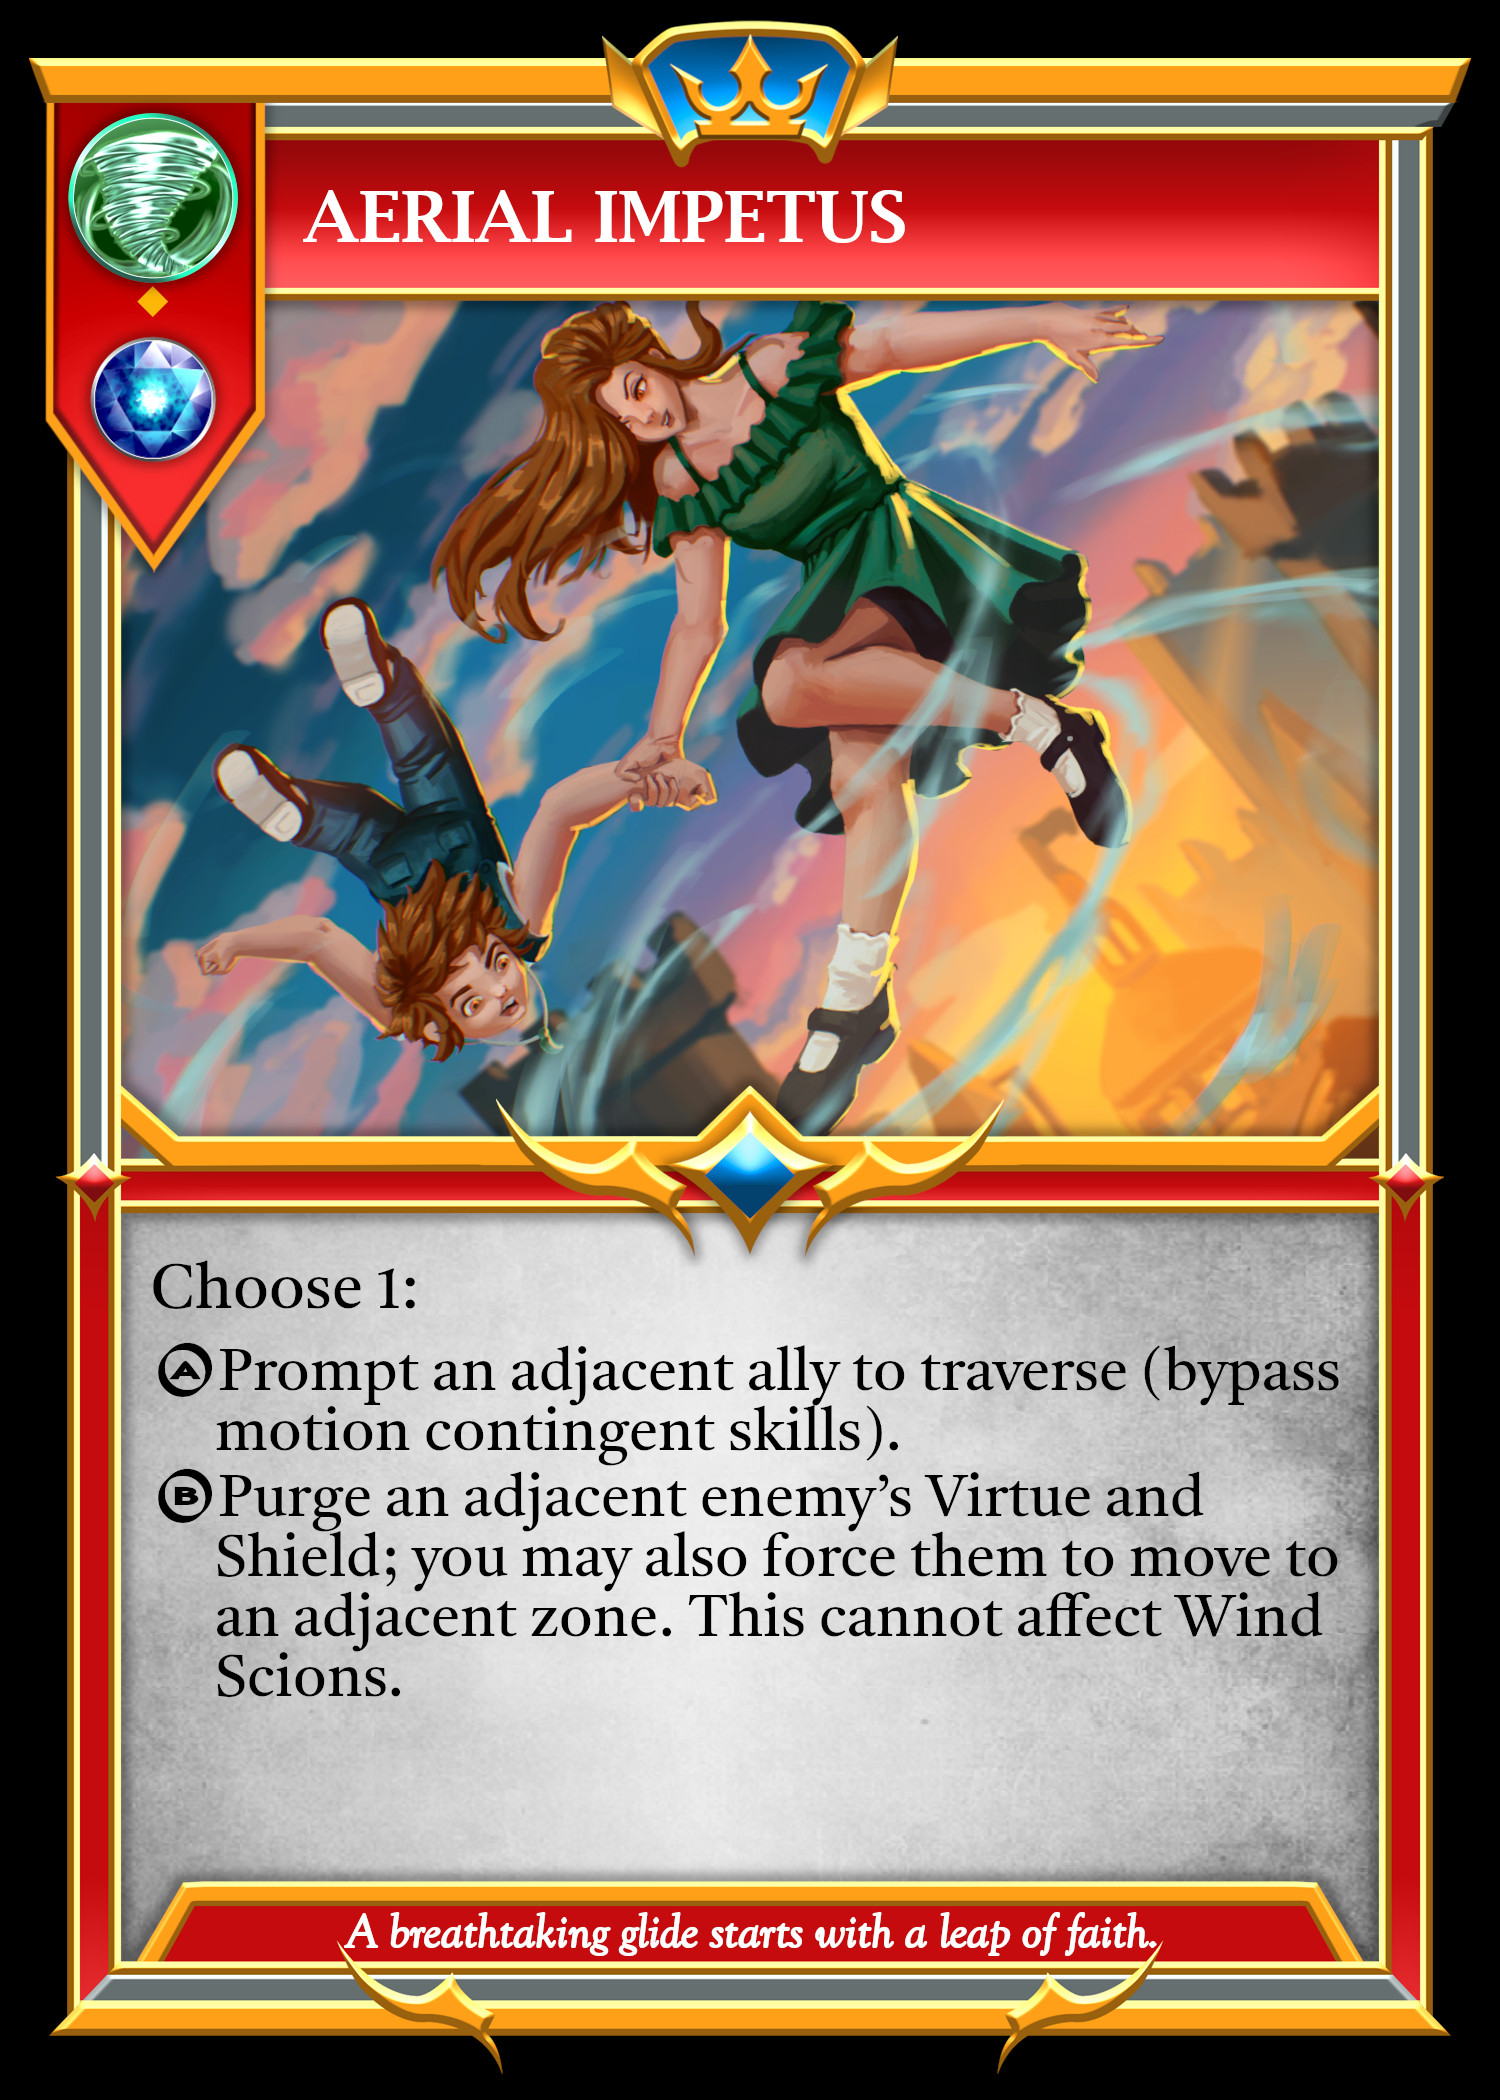
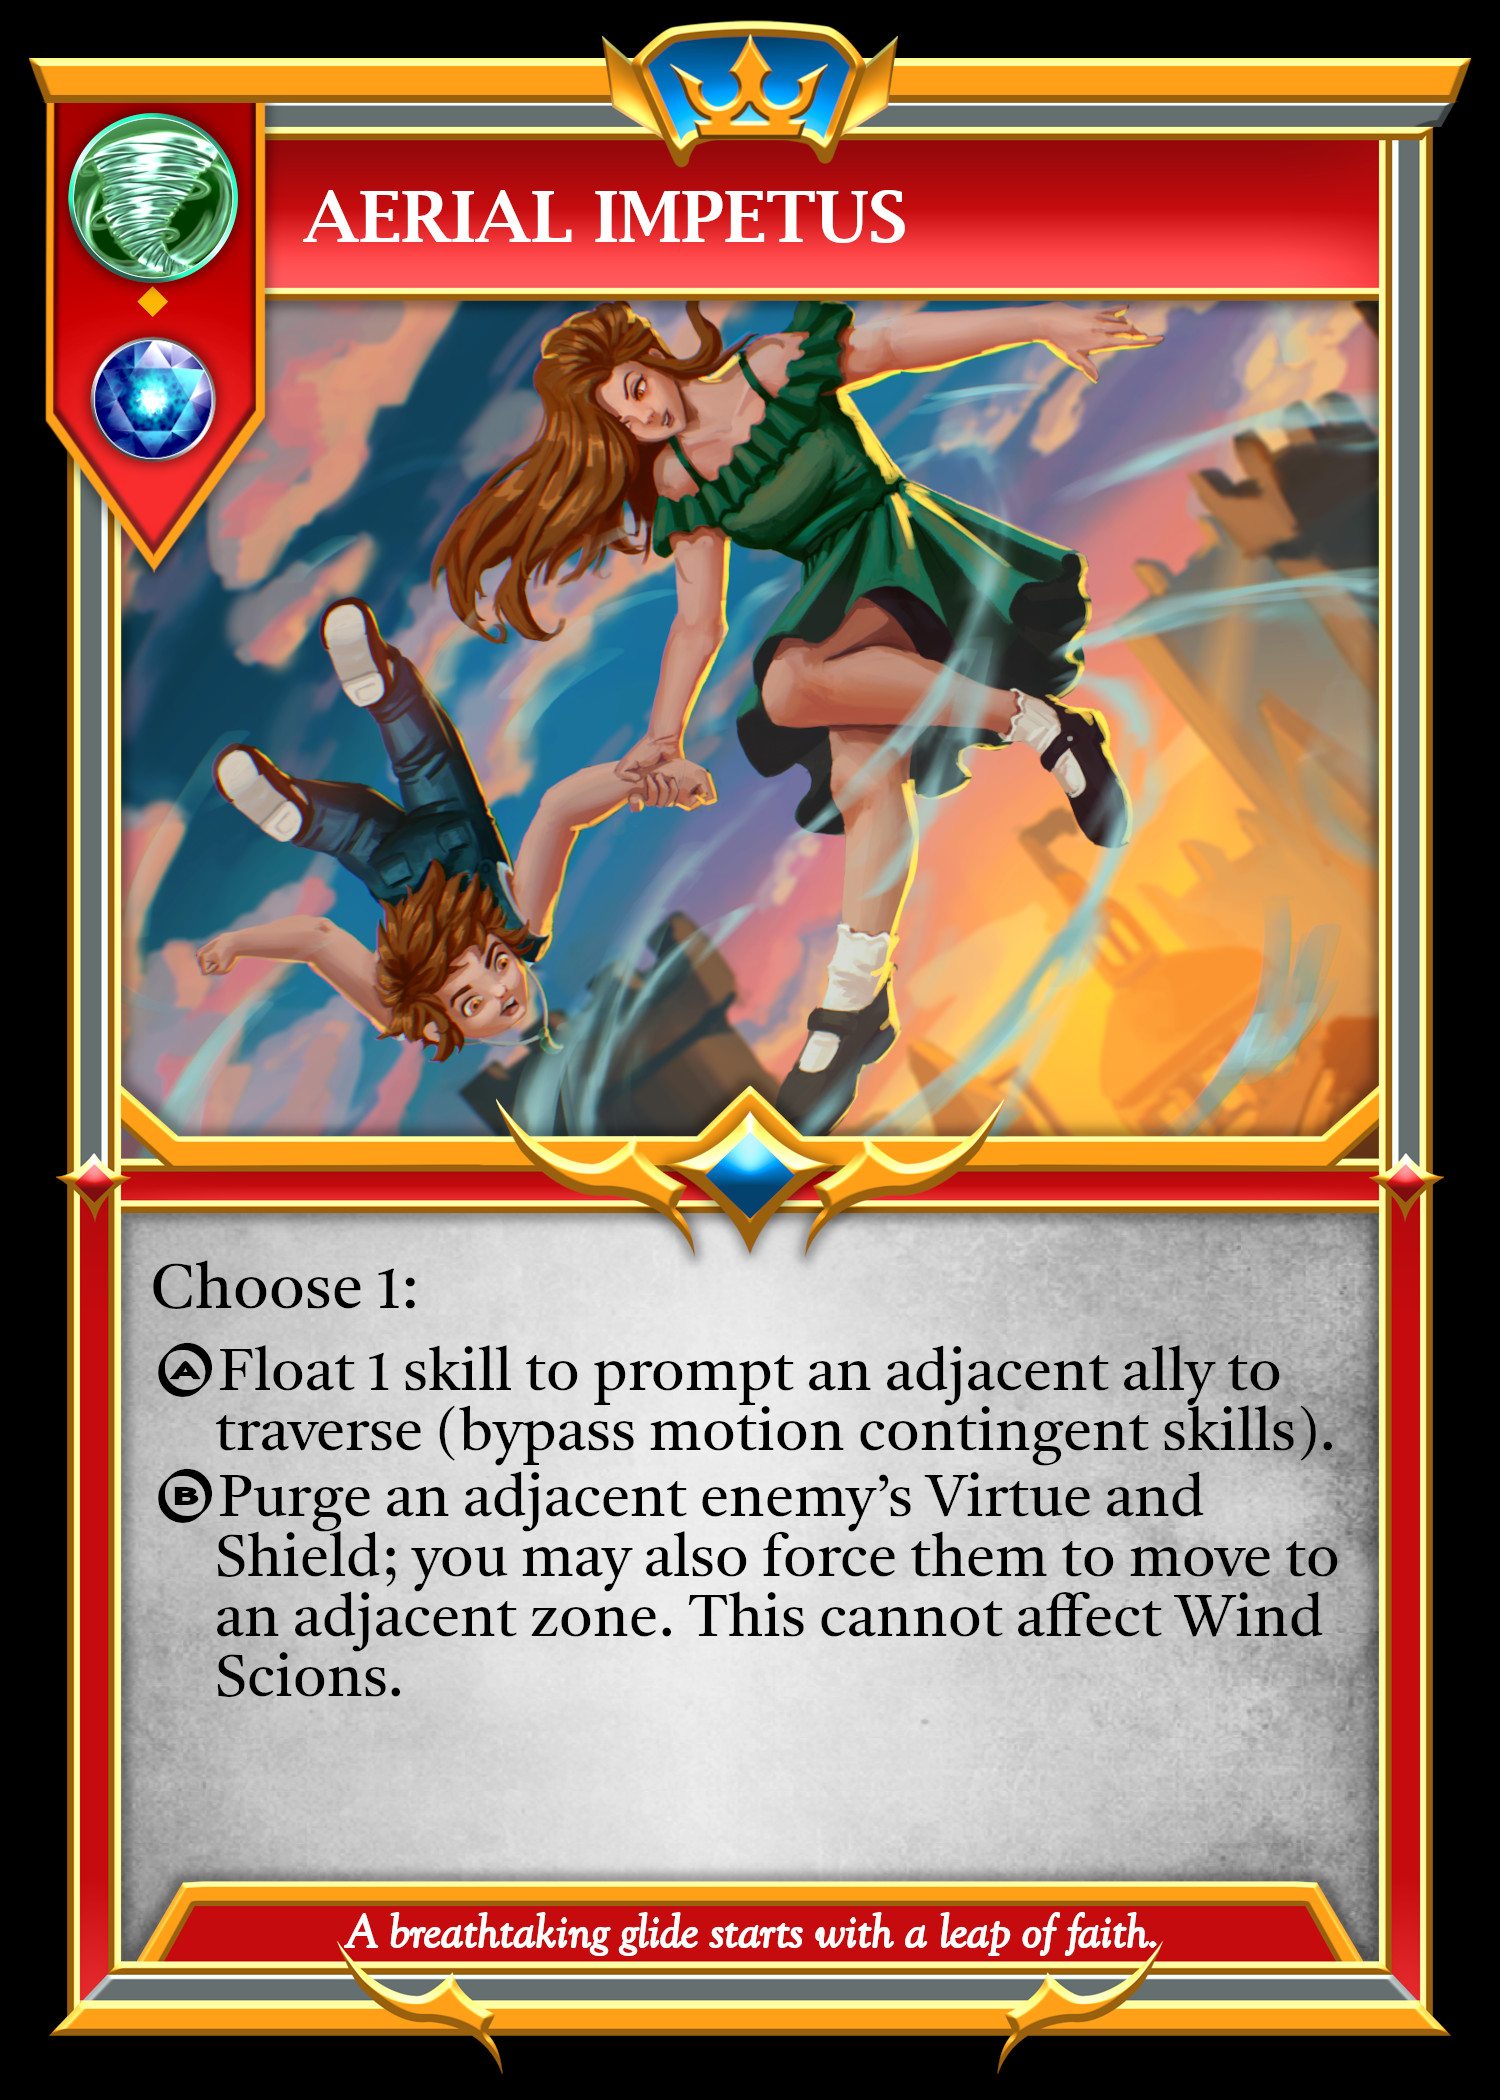
nerfed aerial impetus and providence

Changed region(s): [[0.1533, 0.619, 0.8893, 0.7119]]

diff --git a/src/components/modals/SelectCustomChoice.jsx b/src/components/modals/SelectCustomChoice.jsx
@@ -116,9 +116,12 @@ const SelectCustomChoice = (props) => {
       break;
 
     case "Aerial Impetus":
-      canFirstChoice = getZonesAerialImpetusAlly(unit).length > 0;
+      canFirstChoice =
+        getZonesAerialImpetusAlly(unit).length > 0 &&
+        newGameState[unit.player].skillHand.length > 0;
       canSecondChoice = getZonesWithEnemies(unit, 1).length > 0;
-      ChoiceFirstMessage = "Prompt an adjacent ally to traverse.";
+      ChoiceFirstMessage =
+        "Float 1 skill to prompt an adjacent ally to traverse.";
       ChoiceSecondMessage = "Purge an adjacent enemy’s Virtue and Shield.";
       break;
 
@@ -433,17 +436,31 @@ const SelectCustomChoice = (props) => {
         break;
 
       case "Aerial Impetus":
-        updateLocal = false;
+        // updateLocal = false;
         if (selectedChoice === 1) {
-          enterSelectUnitMode(
-            getZonesAerialImpetusAlly(unit),
-            unit,
-            newGameState,
-            null,
-            "aerial impetus prompt",
-            null
-          );
+          // enterSelectUnitMode(
+          //   getZonesAerialImpetusAlly(unit),
+          //   unit,
+          //   newGameState,
+          //   null,
+          //   "aerial impetus prompt",
+          //   null
+          // );
+
+          newGameState.currentResolution.push({
+            resolution: "Wind Skill",
+            resolution2: "Aerial Impetus Select Ally",
+            unit: unit,
+          });
+
+          newGameState.currentResolution.push({
+            resolution: "Wind Skill",
+            resolution2: "Aerial Impetus Float",
+            player: self,
+            message: "Float 1 skill.",
+          });
         } else {
+          updateLocal = false;
           enterSelectUnitMode(
             getZonesWithEnemies(unit, 1),
             unit,

diff --git a/src/components/Board.jsx b/src/components/Board.jsx
@@ -399,18 +399,18 @@ const Board = (props) => {
 
     switch (option) {
       case "Info":
-        setUnitInfor(expandedUnit);
+        // setUnitInfor(expandedUnit);
 
         // //for testing: quick movement
 
-        // updateLocalState(
-        //   enterMoveMode(
-        //     getZonesInRange(expandedUnit.row, expandedUnit.column, 1, false),
-        //     expandedUnit,
-        //     newGameState,
-        //     null
-        //   )
-        // );
+        updateLocalState(
+          enterMoveMode(
+            getZonesInRange(expandedUnit.row, expandedUnit.column, 1, false),
+            expandedUnit,
+            newGameState,
+            null
+          )
+        );
 
         // //for testing: quick movement
         break;
@@ -1981,6 +1981,26 @@ const Board = (props) => {
                 )}
               </>
             );
+
+          case "Aerial Impetus Float":
+            return (
+              <>
+                {self === lastRes.player && !hideModal && (
+                  <FloatSkill
+                    title="Aerial Impetus"
+                    message={lastRes.message}
+                    updateFirebase={updateFirebase}
+                    hideOrRevealModale={hideOrRevealModale}
+                  />
+                )}
+              </>
+            );
+
+          case "Aerial Impetus Select Ally":
+            if (self === lastRes.unit.player) {
+              updateLocalState(applySkill("aerialImpetus2", lastRes.unit));
+            }
+            break;
 
           case "Aerial Impetus Prompt":
             if (self === lastRes.unit.player) {

diff --git a/src/hooks/useSkillEffects.jsx b/src/hooks/useSkillEffects.jsx
@@ -17,6 +17,8 @@ export const useSkillEffects = () => {
     canMove,
     canStrike,
     drawSkill,
+    enterSelectUnitMode,
+    getZonesAerialImpetusAlly,
     getZonesWithAllies,
     getZonesWithEnemies,
     getZonesWithEnemiesAfflicted,
@@ -576,6 +578,25 @@ export const useSkillEffects = () => {
         reason: "Aerial Impetus",
       },
     });
+
+    return newGameState;
+  };
+
+  const aerialImpetus2 = (unitInfo) => {
+    let newGameState = JSON.parse(JSON.stringify(localGameState));
+    let unit = newGameState[unitInfo.player].units[unitInfo.unitIndex];
+
+    //end "Aerial Impetus Select Ally" resolution
+    newGameState.currentResolution.pop();
+
+    enterSelectUnitMode(
+      getZonesAerialImpetusAlly(unit),
+      unit,
+      newGameState,
+      null,
+      "aerial impetus prompt",
+      null
+    );
 
     return newGameState;
   };
@@ -2678,6 +2699,8 @@ export const useSkillEffects = () => {
       //Wind
       case "aerialImpetus1":
         return aerialImpetus1(a);
+      case "aerialImpetus2":
+        return aerialImpetus2(a);
       case "aerialImpetus2E":
         return aerialImpetus2E(a);
       case "galeConjuration1":

diff --git a/src/hooks/useRecurringEffects.jsx b/src/hooks/useRecurringEffects.jsx
@@ -2773,7 +2773,10 @@ export const useRecurringEffects = () => {
         return true;
       }
 
-      if (getZonesAerialImpetusAlly(unit).length > 0) {
+      if (
+        getZonesAerialImpetusAlly(unit).length > 0 &&
+        localGameState[self].skillHand.length > 1
+      ) {
         return true;
       }
 
@@ -2827,11 +2830,13 @@ export const useRecurringEffects = () => {
         return false;
       }
 
-      if (localGameState[self].skillHand.length < 2) {
-        return false;
-      }
+      return localGameState[self].skillHand.length > 1;
 
-      return true;
+      // if (localGameState[self].skillHand.length < 2) {
+      //   return false;
+      // }
+
+      // return true;
     };
 
     const canSurge = () => {

diff --git a/src/hooks/useGetImages.jsx b/src/hooks/useGetImages.jsx
@@ -1,5 +1,7 @@
 import React from "react";
 
+import AvelhemLogo from "../assets/others/AvelhemLogo.png";
+
 import FireAvelhem from "../assets/avelhemcards/FireAvelhem.jpg";
 import IgnitionPropulsion from "../assets/skillcards/IgnitionPropulsion.jpg";
 import Conflagration from "../assets/skillcards/Conflagration.jpg";
@@ -161,6 +163,7 @@ import MountainFields from "../assets/banners/MountainFields.jpg";
 
 export const useGetImages = () => {
   const imagesLoadingList = [
+    AvelhemLogo,
     LoadingBanner,
     NightSky,
     // MountainFields,

diff --git a/src/components/hand/SkillHandBack.jsx b/src/components/hand/SkillHandBack.jsx
@@ -21,7 +21,10 @@ const SkillHandBack = (props) => {
   }
 
   const cardImage = (position) => {
-    if (transcendenceCount > Math.min(5, handNum) - position) {
+    if (
+      transcendenceCount > 0 &&
+      transcendenceCount > Math.min(5, handNum) - position
+    ) {
       return `url(${getCardImage("SX-01")})`;
     } else {
       return `url(${getCardImage("SkillCardBack")})`;

diff --git a/src/components/modals/FloatSkill.jsx b/src/components/modals/FloatSkill.jsx
@@ -88,6 +88,8 @@ const FloatSkill = (props) => {
             </button>
           </div>
         </div>
+
+        <br />
         <h3>{props.message}</h3>
 
         <br />

diff --git a/src/components/modals/YouMayFloat1Skill.jsx b/src/components/modals/YouMayFloat1Skill.jsx
@@ -201,6 +201,8 @@ const YouMayFloat1Skill = (props) => {
           </div>
         </div>
 
+        <br />
+
         <h3>{props.message}</h3>
 
         <br />

diff --git a/src/index.css b/src/index.css
@@ -12,7 +12,7 @@ body {
   margin: 0;
   font-size: 1.4em;
   /* background: #dfdfdf; */
-  background: #636363;
+  background: #333;
   color: #333;
 }
 
